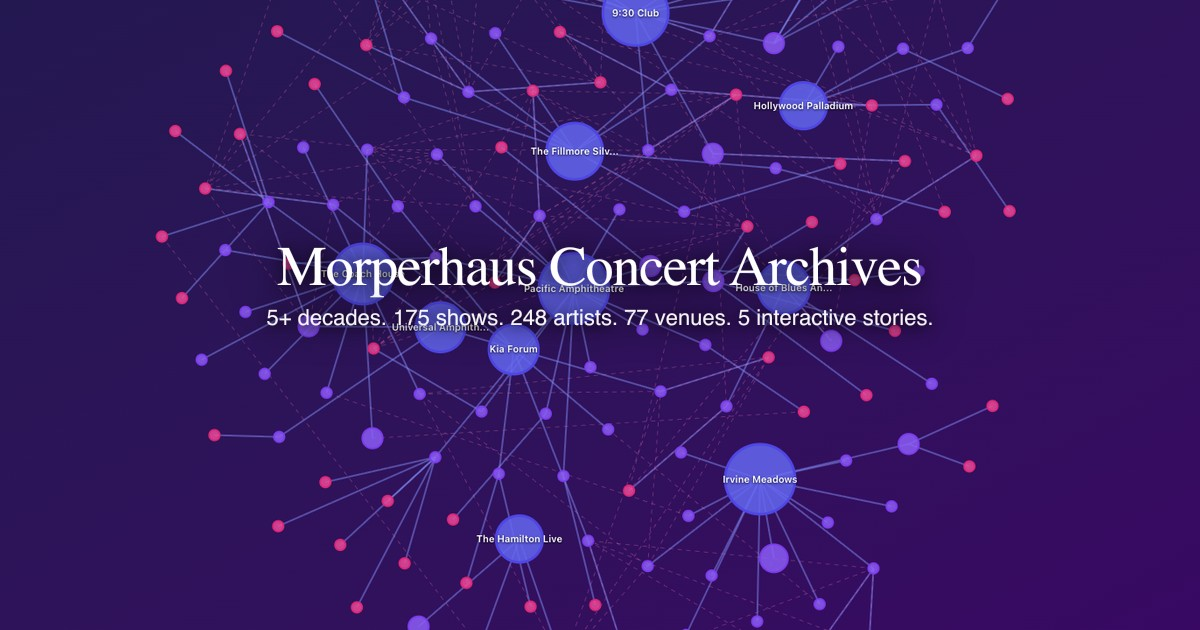
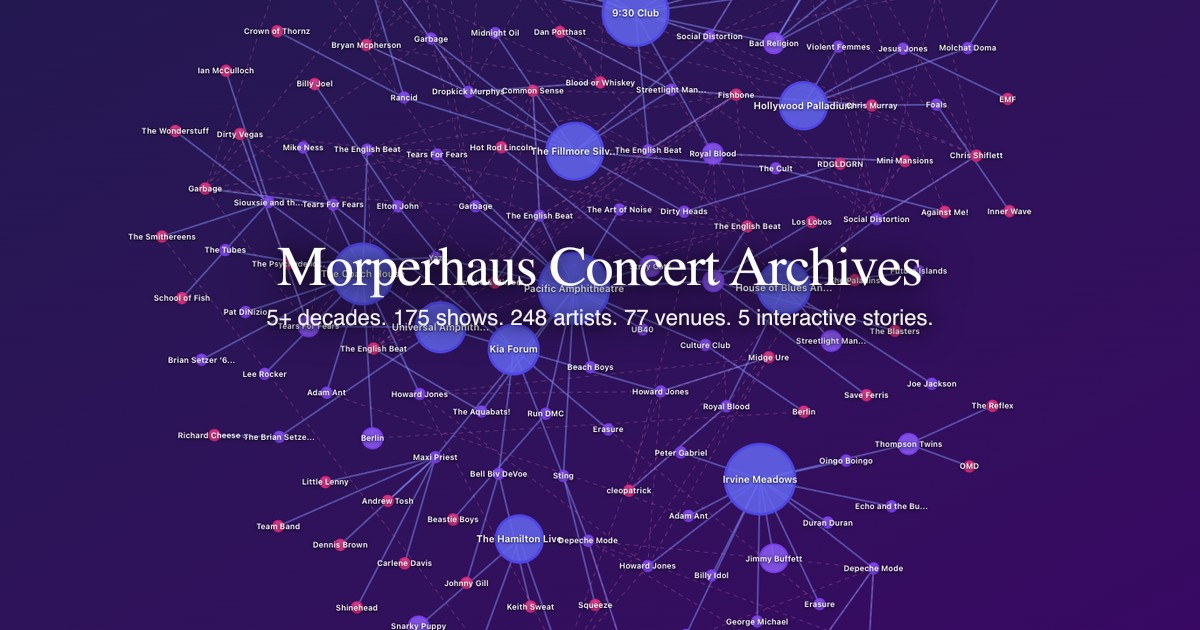
release: v3.3.0 - Connected Experience
Update version to v3.3.0 across all files and move completed specs to
implemented directory.

Changes:
- Add v3.3.0 changelog entry: Connected Experience
- Update package.json, CLAUDE.md, context.md to v3.3.0
- Update README "What's New" section
- Move Venue Cross-Scene Navigation to Recently Completed in ROADMAP
- Move Venues Mobile UX to Recently Completed in ROADMAP
- Move spec files to docs/specs/implemented/
- Regenerate OG image with current stats

diff --git a/docs/ROADMAP.md b/docs/ROADMAP.md
@@ -1,16 +1,50 @@
 # Roadmap
 
-## Current State (v3.2.0)
+## Current State (v3.3.0)
 
 - **178 concerts** spanning 1984-2026
 - **104 headlining artists** with 247 total artists (including openers)
 - **77 unique venues** across 35 cities
 - **5 interactive scenes**: Timeline, Venues, Geography, Genres, Artists
-- **Latest improvements**: Phone-native modal for Artist Scene with tabbed navigation
+- **Latest improvements**: Cross-scene venue navigation with venue+artist combined deep linking
 
 ---
 
 ## Recently Completed
+
+### ✅ Venue Cross-Scene Navigation (v3.3.0)
+
+**Status**: Completed
+**Spec**: [venues-deep-linking.md](specs/implemented/venues-deep-linking.md)
+
+Seamless cross-scene navigation with venue+artist combined deep linking.
+
+**Implemented Features**:
+
+- Clickable venue names in Artist gatefold concert history
+- Clickable venue names in Phone Artist Modal
+- Venue+artist combined deep linking focuses both nodes in force-directed graph
+- Permanent venue labels on map markers
+- "Explore Venue" buttons use real links for better mobile UX
+- Hyperlinks in gatefold content with proper navigation
+
+---
+
+### ✅ Venues Mobile UX (v3.3.0)
+
+**Status**: Completed
+**Spec**: [venues-mobile-ux.md](specs/implemented/venues-mobile-ux.md)
+
+Mobile UX improvements for Venues scene including enhanced label visibility and touch interactions.
+
+**Implemented Features**:
+
+- Permanent venue labels on map for at-a-glance navigation
+- Improved label opacity logic matching spotlight state
+- Real link navigation for cross-scene venue exploration
+- Touch-optimized venue node interactions
+
+---
 
 ### ✅ Phone Artist Modal (v3.2.0)
 
@@ -102,14 +136,6 @@ Genre moved to artist-level metadata with automatic enrichment from TheAudioDB.
 
 ## Short-Term Roadmap
 
-### Venues Mobile UX
-**Status**: Planned
-**Spec**: [venues-mobile-ux.md](specs/future/venues-mobile-ux.md)
-
-Venue mobile ux improvements
-
----
-
 ### UX Polish
 
 **Status**: In Progress
@@ -121,10 +147,8 @@ Venue mobile ux improvements
 
 Refinements to interaction patterns and navigation across the app.
 
-**Improvements**:
+**Remaining Improvements**:
 
-- Enhanced touch and click feedback (haptic + visual)
-- Add hyperlinks in gatefold content (venue names, related artists)
 - Improved button states and loading indicators
 - Better keyboard navigation support
 - Display renamed venues with ♻ badge and new name
@@ -132,15 +156,6 @@ Refinements to interaction patterns and navigation across the app.
 ---
 
 ## Medium-Term Roadmap
-
-### Venue Deep Linking
-
-**Status**: Planned
-**Spec**: [venues-deep-linking.md](specs/future/venues-deep-linking.md)
-
-Navigate to specific venue nodes with artist filtering via URL parameters
-
----
 
 ### Venue Name Change Detection & CLI Management
 **Status**: Planned

diff --git a/README.md b/README.md
@@ -11,9 +11,9 @@ An interactive web app for exploring personal concert history. Five scenes—Tim
 
 ## What's new
 
-**v3.2.0** 📱 Artist details now feel native on your phone! [Tap any artist](https://concerts.morperhaus.org/?scene=artists&artist=depeche-mode) to open a full-screen modal with tabbed navigation—swipe through your concert history, check upcoming tour dates, and pull up setlists with a tap. Swipe down or tap X to close, just like you'd expect.
+**v3.3.0** 🔗 Navigate seamlessly between scenes! When exploring an artist's concert history, [tap any venue name](https://concerts.morperhaus.org/?scene=artists&artist=depeche-mode) to jump straight to the Venues scene—automatically spotlighting both the venue and artist to show you their unique relationship. Map markers now display venue names for easier exploration, and all venue links use proper navigation for a better mobile experience.
 
-**v3.1.0** 🖐 The timeline now works beautifully on iPad! [Tap any year](https://concerts.morperhaus.org/?scene=timeline) and drag your finger across the concert cards to preview them one by one—each card comes to life with haptic feedback. Tap a focused card to jump straight into that artist's full story. Touch interactions feel as natural as flipping through vinyl.
+**v3.2.0** 📱 Artist details now feel native on your phone! [Tap any artist](https://concerts.morperhaus.org/?scene=artists&artist=depeche-mode) to open a full-screen modal with tabbed navigation—swipe through your concert history, check upcoming tour dates, and pull up setlists with a tap. Swipe down or tap X to close, just like you'd expect.
 
 See the full changelog at [/liner-notes](https://concerts.morperhaus.org/liner-notes)
 

diff --git a/.claude/context.md b/.claude/context.md
@@ -2,7 +2,7 @@
 
 ## Quick Start
 
-**Version:** v3.2.0 (Production)
+**Version:** v3.3.0 (Production)
 **Status:** Live at concerts.morperhaus.org
 **Last Sync:** 2026-01-08
 
@@ -92,21 +92,21 @@ These docs provide essential context for common development tasks:
 
 **Live Site:** https://concerts.morperhaus.org
 
-**v3.2.0 Production (Latest):**
+**v3.3.0 Production (Latest):**
 
-- ✅ Phone-native modal for Artist Scene (replaces desktop gatefold on mobile)
-- ✅ Tabbed navigation: Concert History, Upcoming Shows, Top Tracks
-- ✅ Setlist overlay slides from right with swipe gestures
-- ✅ Color-coded tabs with brand accents (violet, amber, Spotify green)
-- ✅ Deep link copy button with haptic feedback
+- ✅ Cross-scene navigation with venue+artist combined deep linking
+- ✅ Clickable venue names in Artist gatefold and Phone Modal
+- ✅ Venue+artist spotlight focuses both nodes in force-directed graph
+- ✅ Permanent venue labels on map markers
+- ✅ Real links for "Explore Venue" buttons (better mobile UX)
 
 **Recent Releases:**
 
+- **v3.3.0** (2026-01-08): Connected Experience
 - **v3.2.0** (2026-01-08): Mobile Artist Experience
 - **v3.1.0** (2026-01-07): iPad Touch Support for Timeline
 - **v3.0.1** (2026-01-06): Genre Enrichment & Artist Metadata
 - **v3.0.0** (2026-01-06): Interactive Timeline Exploration & Genre Journey
-- **v2.0.0** (2026-01-05): Real-time tour dates with Ticketmaster API
 
 ---
 
@@ -190,4 +190,4 @@ See `.claude/commands/README.md` for full documentation.
 
 ---
 
-*Last updated: 2026-01-08 by Claude Code for v3.2.0 release*
+*Last updated: 2026-01-08 by Claude Code for v3.3.0 release*

diff --git a/CLAUDE.md b/CLAUDE.md
@@ -3,7 +3,7 @@
 Interactive web application for exploring personal concert history (1984-present).
 
 **Live:** https://concerts.morperhaus.org
-**Version:** v3.2.0 | 178 concerts, 247 artists, 77 venues
+**Version:** v3.3.0 | 178 concerts, 247 artists, 77 venues
 **Stack:** Vite 6, React 18, TypeScript 5, Tailwind 4, D3.js 7, Leaflet
 
 ---
